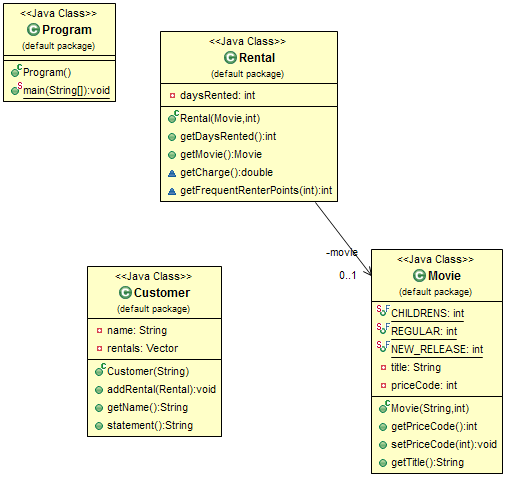
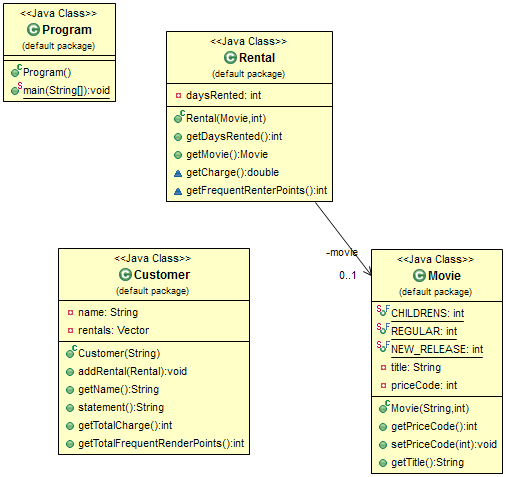
Moved temp Variables to getTotalCharge() and getTotalFrequentRenderPoints()

Changed region(s): [[0.0889, 0.499, 0.504, 0.9686], [0.2964, 0.0587, 0.6818, 0.4403], [0.415, 0.0587, 0.5632, 0.1174]]

diff --git a/src/Customer.java b/src/Customer.java
@@ -15,25 +15,39 @@ class Customer {
         return name;
     };
     public String statement() {
-        double totalAmount = 0;
-        int frequentRenterPoints = 0;
         Enumeration enum_rentals = rentals.elements();	    
         String result = "Rental Record for " + this.getName() + "\n";
         result += "\t" + "Title" + "\t" + "\t" + "Days" + "\t" + "Amount" + "\n";
 
         while (enum_rentals.hasMoreElements()) {
             Rental each = (Rental) enum_rentals.nextElement();
-            // add frequent renter points
-            frequentRenterPoints = each.getFrequentRenterPoints(frequentRenterPoints);
             //show figures for this rental
             result += "\t" + each.getMovie().getTitle()+ "\t" + "\t" + each.getDaysRented() + "\t" + String.valueOf(each.getCharge()) + "\n";
-            totalAmount += each.getCharge();
         }
         //add footer lines
-        result += "Amount owed is " + String.valueOf(totalAmount) + "\n";
-        result += "You earned " + String.valueOf(frequentRenterPoints) + " frequent renter points";
+        result += "Amount owed is " + String.valueOf(getTotalCharge()) + "\n";
+        result += "You earned " + String.valueOf(getTotalFrequentRenderPoints()) + " frequent renter points";
         return result;
     }
     
+    public int getTotalCharge() {
+    	int result = 0;
+    	Enumeration enum_rentals = rentals.elements();	 
+    	while (enum_rentals.hasMoreElements()) {
+    		Rental each = (Rental) enum_rentals.nextElement();
+    		result += each.getCharge();
+    	}
+    	return result;
+    }
+    
+    public int getTotalFrequentRenderPoints() {
+    	int result = 0;
+    	Enumeration enum_rentals = rentals.elements();	 
+    	while (enum_rentals.hasMoreElements()) {
+    		Rental each = (Rental) enum_rentals.nextElement();
+    		result += each.getFrequentRenterPoints();
+    	}
+    	return result;
+    }
 }
     

diff --git a/src/Rental.java b/src/Rental.java
@@ -31,11 +31,10 @@ class Rental {
 		}
 		return thisAmount;
 	}
-	int getFrequentRenterPoints(int frequentRenterPoints) {
-		frequentRenterPoints ++;
-		// add bonus for a two day new release rental
+	int getFrequentRenterPoints() {
 		if ((getMovie().getPriceCode() == Movie.NEW_RELEASE) && getDaysRented() > 1) 
-		    frequentRenterPoints ++;
-		return frequentRenterPoints;
+		    return 2;
+		else
+			return 1;
 	}
 }
